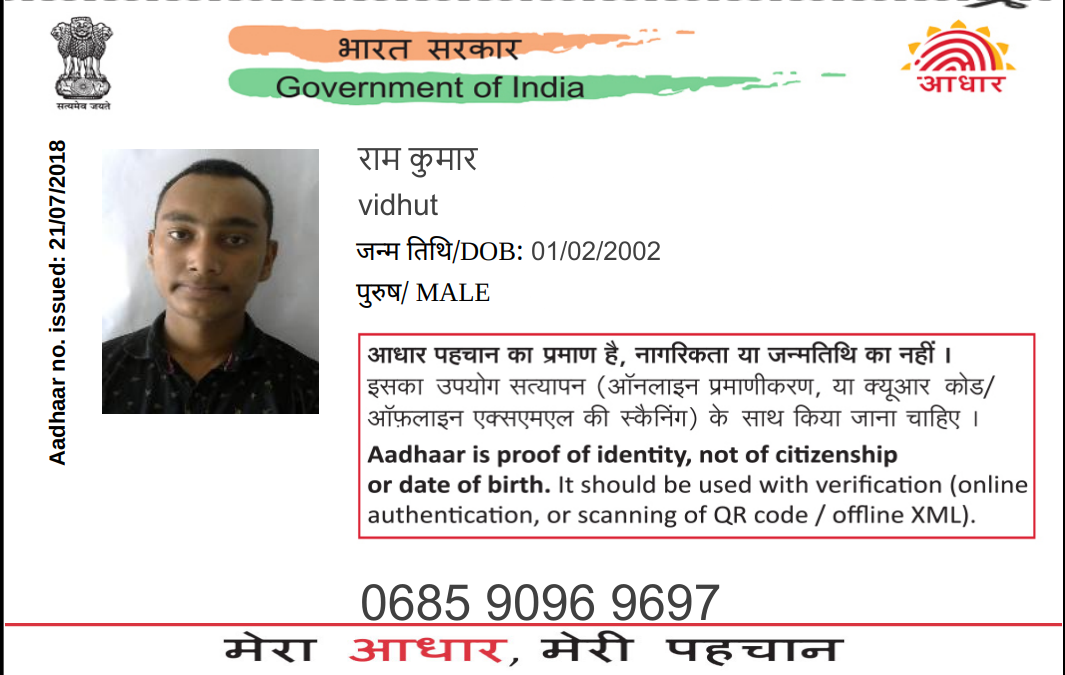
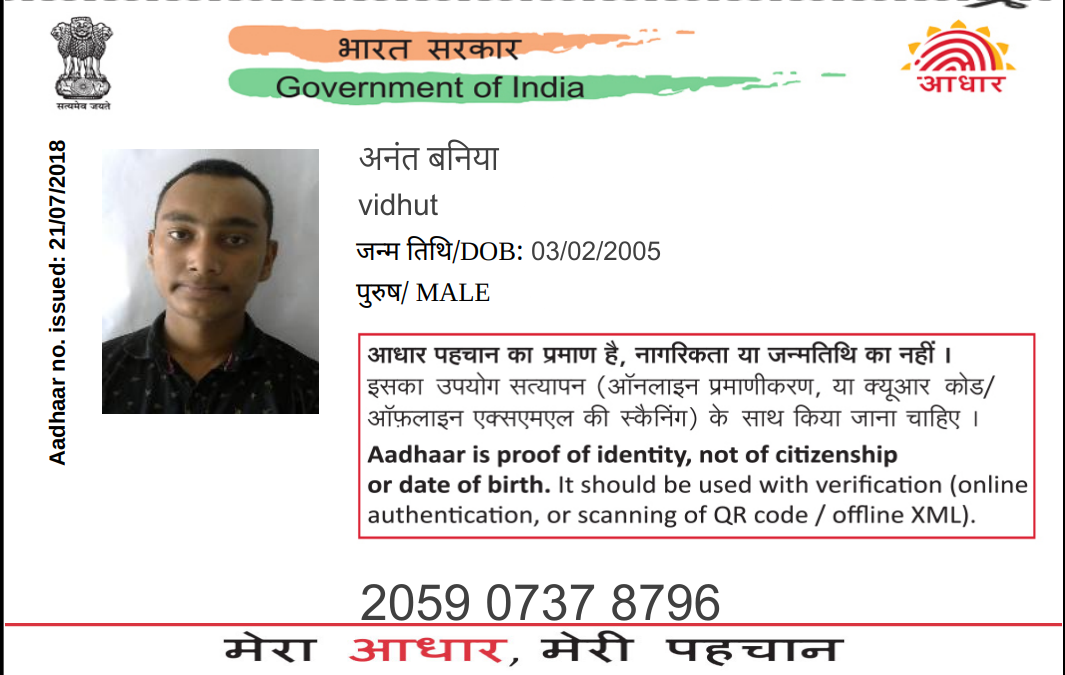
Fix Hindi font rendering by embedding font in SVG

diff --git a/server.js b/server.js
@@ -4,6 +4,7 @@ const fs = require('fs');
 const path = require('path');
 const sharp = require('sharp');
 
+
 const app = express();
 const PORT = process.env.PORT || 3000;
 
@@ -13,6 +14,10 @@ app.use('/output', express.static(path.join(__dirname, 'output')));
 app.use(express.static(path.join(__dirname, 'public')));
 
 const upload = multer();
+
+// Read font file and convert to base64 for embedding in SVG
+const fontPath = path.join(__dirname, 'fonts', 'NotoSansDevanagari-Regular.ttf');
+const fontData = fs.readFileSync(fontPath).toString('base64');
 
 function generateRandomAdhar() {
   return Array.from({ length: 12 }, () => Math.floor(Math.random() * 10)).join('');
@@ -41,13 +46,19 @@ app.post('/generate', upload.none(), async (req, res) => {
       const adhar = generateRandomAdhar().replace(/(\d{4})(?=\d)/g, '$1 ');
 
       const svgText = `
-        <svg width="1015" height="640">
-          <style>
-            .hindi { font-family: 'Noto Sans Devanagari', sans-serif; font-size: 30px; fill: #404040; }
-            .english { font-family: Arial, sans-serif; font-size: 30px; fill: #404040; }
-            .dob { font-family: Arial, sans-serif; font-size: 26px; fill: #404040; }
-            .aadhaar { font-family: Arial, sans-serif; font-size: 50px; fill: #404040; }
-          </style>
+        <svg width="1015" height="640" xmlns="http://www.w3.org/2000/svg">
+          <defs>
+            <style type="text/css">
+              @font-face {
+                font-family: 'NotoSansDevanagari';
+                src: url('data:font/truetype;charset=utf-8;base64,${fontData}') format('truetype');
+              }
+              .hindi { font-family: 'NotoSansDevanagari'; font-size: 30px; fill: #404040; }
+              .english { font-family: Arial, sans-serif; font-size: 30px; fill: #404040; }
+              .dob { font-family: Arial, sans-serif; font-size: 26px; fill: #404040; }
+              .aadhaar { font-family: Arial, sans-serif; font-size: 50px; fill: #404040; }
+            </style>
+          </defs>
           <text x="358" y="170" class="hindi">${hindiName}</text>
           <text x="358" y="215" class="english">${name}</text>
           <text x="531" y="260" class="dob">${formattedDob}</text>
@@ -60,7 +71,8 @@ app.post('/generate', upload.none(), async (req, res) => {
         .png()
         .toBuffer();
 
-      const filename = `card_${name.replace(/\s+/g, '_')}_${i + 1}.png`;
+      const safeName = name.replace(/\s+/g, '_').replace(/[^\w\-]/g, '');
+      const filename = `card_${safeName}_${i + 1}.png`;
       const filepath = path.join(__dirname, 'output', filename);
       fs.writeFileSync(filepath, cardBuffer);
       outputUrls.push(`/output/${filename}`);
